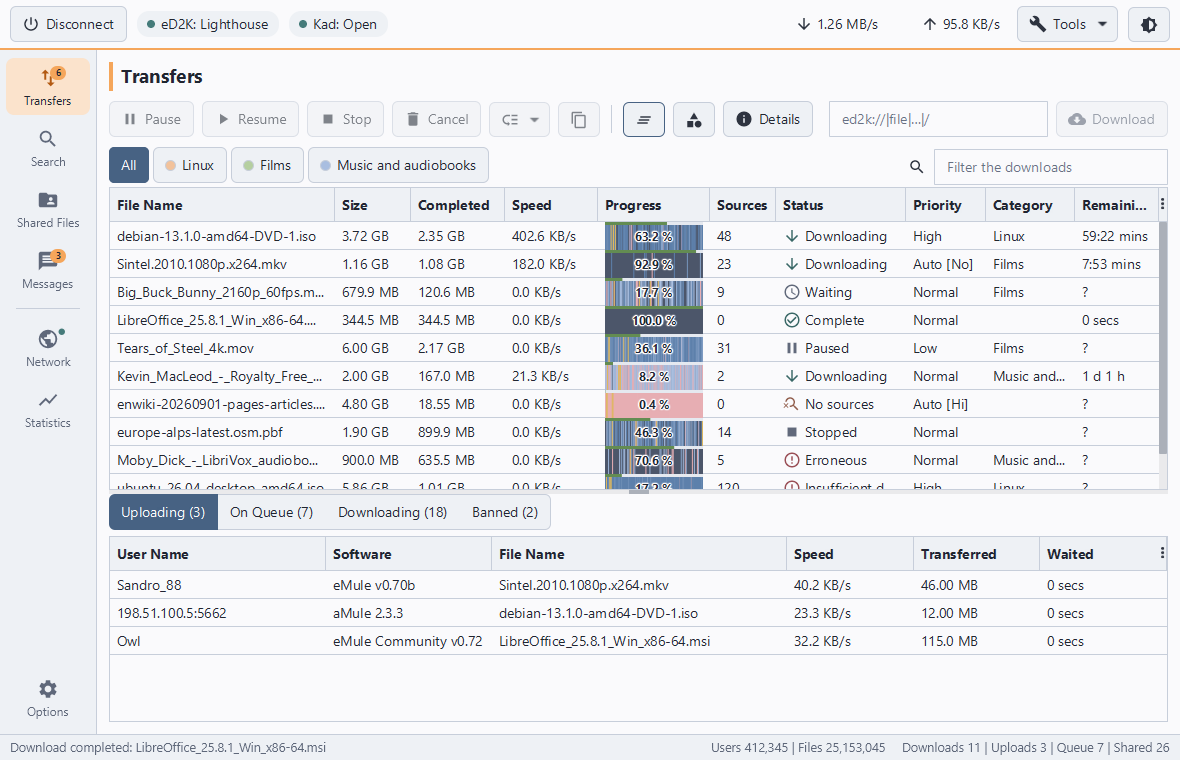
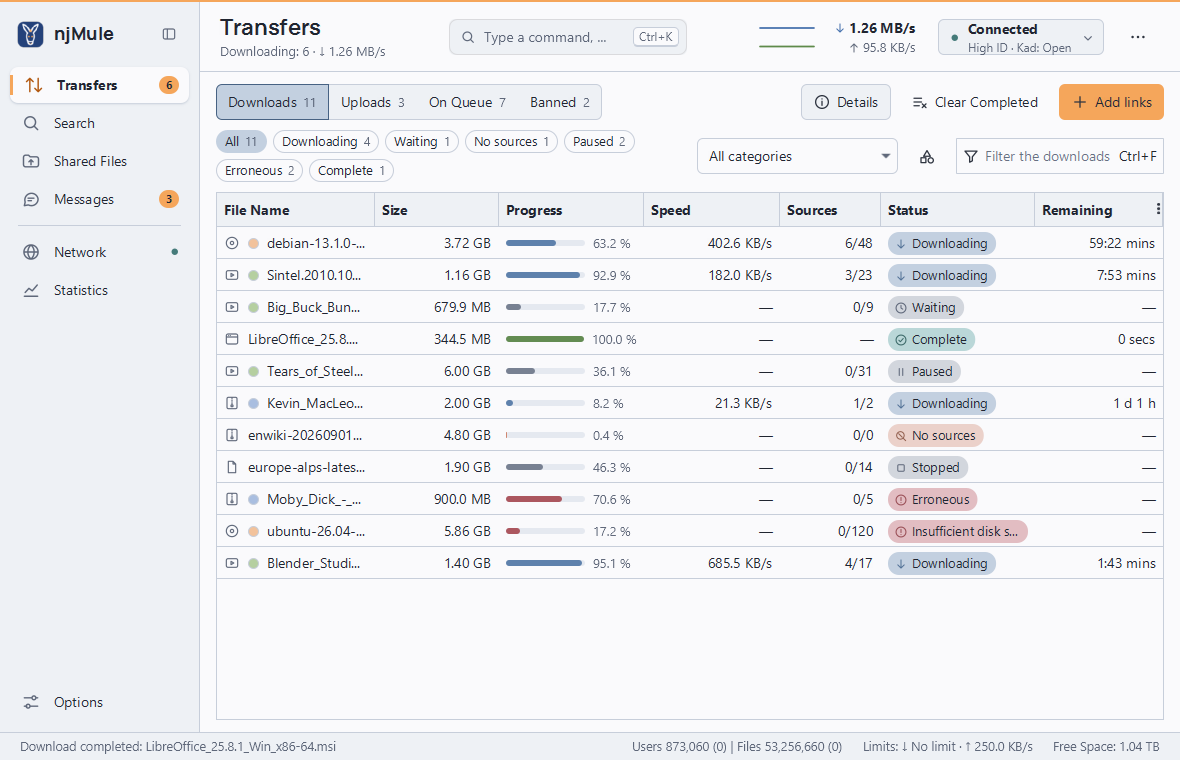
docs: show the redesigned transfers in the readme
The README pictures are taken again from the capture tour, light and
dark, with the table at its whole width. The demo captures leave out
the real engine's log lines, which may name the computer's public
address; only the demo's own lines show.

diff --git a/njmule-gui/src/test/java/org/njmule/gui/CaptureTour.java b/njmule-gui/src/test/java/org/njmule/gui/CaptureTour.java
@@ -38,6 +38,7 @@ import java.util.Map;
 import java.util.Optional;
 import java.util.Set;
 import java.util.concurrent.CompletableFuture;
+import java.util.concurrent.Flow;
 import java.util.concurrent.TimeUnit;
 import java.util.concurrent.atomic.AtomicReference;
 import java.util.function.Consumer;
@@ -224,7 +225,11 @@ class CaptureTour {
         if (demo) {
             this.engine.updateSchedule(CaptureDemo.schedule()).get(10, TimeUnit.SECONDS);
         }
-        NjMuleEngine shown = demo ? Engines.overriding(this.engine, CaptureDemo.commands(root)) : this.engine;
+        // The log is the demo's: the real engine's lines may name this computer's addresses.
+        NjMuleEngine shown = demo
+                ? Engines.withEvents(
+                        Engines.overriding(this.engine, CaptureDemo.commands(root)), withoutLog(this.engine.events()))
+                : this.engine;
         this.model = new EngineModel(shown, Platform::runLater);
         I18n i18n = I18n.of(language);
         // As the app does: JavaFX's own texts in the language of the set.
@@ -284,6 +289,38 @@ class CaptureTour {
         }
         // Long enough for the banner of a lasting state to show.
         Thread.sleep(2500);
+    }
+
+    // The engine's events but its log lines, asking again for each one left out.
+    private static Flow.Publisher<EngineEvent> withoutLog(Flow.Publisher<EngineEvent> events) {
+        return subscriber -> events.subscribe(new Flow.Subscriber<>() {
+            private Flow.Subscription subscription;
+
+            @Override
+            public void onSubscribe(Flow.Subscription s) {
+                this.subscription = s;
+                subscriber.onSubscribe(s);
+            }
+
+            @Override
+            public void onNext(EngineEvent event) {
+                if (event instanceof EngineEvent.Log) {
+                    this.subscription.request(1);
+                } else {
+                    subscriber.onNext(event);
+                }
+            }
+
+            @Override
+            public void onError(Throwable error) {
+                subscriber.onError(error);
+            }
+
+            @Override
+            public void onComplete() {
+                subscriber.onComplete();
+            }
+        });
     }
 
     // What only events tell: the connection, the log, the chats and ten minutes of rates.
@@ -351,10 +388,15 @@ class CaptureTour {
         }
     }
 
-    // The picture of the README: no message over the lists.
+    // The picture of the README: no message over the lists, and the table at its whole width.
     private void readme() throws Exception {
         Thread.sleep(MESSAGES_GONE.toMillis());
-        fx(() -> this.window.show("transfers"));
+        fx(() -> {
+            this.window.show("transfers");
+            if (this.stage.getScene().lookup("#details") instanceof ToggleButton details && details.isSelected()) {
+                details.fire();
+            }
+        });
         shot("transfers", "The transfers, for the README");
     }
 

diff --git a/njmule-gui/src/test/java/org/njmule/gui/Engines.java b/njmule-gui/src/test/java/org/njmule/gui/Engines.java
@@ -20,6 +20,8 @@ import java.lang.reflect.InvocationTargetException;
 import java.lang.reflect.Proxy;
 import java.util.Map;
 import java.util.concurrent.CompletableFuture;
+import java.util.concurrent.Flow;
+import org.njmule.core.api.EngineEvent;
 import org.njmule.core.api.NjMuleEngine;
 
 /** A real engine with some commands replaced, for failures and delays the real one cannot be made to show. */
@@ -32,6 +34,21 @@ public final class Engines {
     }
 
     private Engines() {}
+
+    /** {@code real}, telling the {@code events} given instead of its own. */
+    public static NjMuleEngine withEvents(NjMuleEngine real, Flow.Publisher<EngineEvent> events) {
+        return (NjMuleEngine) Proxy.newProxyInstance(
+                NjMuleEngine.class.getClassLoader(), new Class<?>[] {NjMuleEngine.class}, (proxy, method, args) -> {
+                    if (method.getName().equals("events")) {
+                        return events;
+                    }
+                    try {
+                        return method.invoke(real, args);
+                    } catch (InvocationTargetException e) {
+                        throw e.getCause();
+                    }
+                });
+    }
 
     /** {@code real}, except that the commands named in {@code commands} answer as those do. */
     @SuppressWarnings("FutureReturnValueIgnored") // a proxy returns each answer as Object; the caller checks it

diff --git a/CHANGELOG.md b/CHANGELOG.md
@@ -624,6 +624,14 @@ All notable changes to this project are documented here. The format follows
   its outcomes as chips. The menu of the notification area opens on njMule's name with the state
   and the rates, keeps Show njMule as its default and Quit always there, and shows only Connect or
   Disconnect; MiniMule tells the state with a dot and draws the last half minute of the rates.
+- The desktop app reads well in every theme: a test measures the contrast of the text and the marks
+  it draws against what is behind them in all the AtlantaFX themes, light and dark, and the few
+  theme tones that fell short of WCAG AA on its surfaces are a little stronger (the muted and red
+  text of Nord Dark, the red and orange of Cupertino, the green tint of Dracula). Screen readers
+  hear the progress bars as progress with their value, the state chips, file names and outcomes
+  in the tables as words, and the rate graph as a sentence with the rates now and the highest.
+  "All" reads right in the messages and the log in every language, three misspelt Arabic texts
+  taken from eMule are corrected, and the README shows the redesigned transfers.
 
 ### Changed
 

diff --git a/README.md b/README.md
@@ -32,7 +32,7 @@ SPDX-License-Identifier: GPL-3.0-or-later
 <p align="center">
     <picture>
         <source media="(prefers-color-scheme: dark)" srcset=".github/assets/njmule-transfers-dark.png">
-        <img alt="The transfers of the njMule desktop app: downloads with their part bars, and the uploads below" src=".github/assets/njmule-transfers-light.png" width="880">
+        <img alt="The transfers of the njMule desktop app: the downloads with their progress, speed, sources and state, filtered by chips" src=".github/assets/njmule-transfers-light.png" width="880">
     </picture>
 </p>
 
